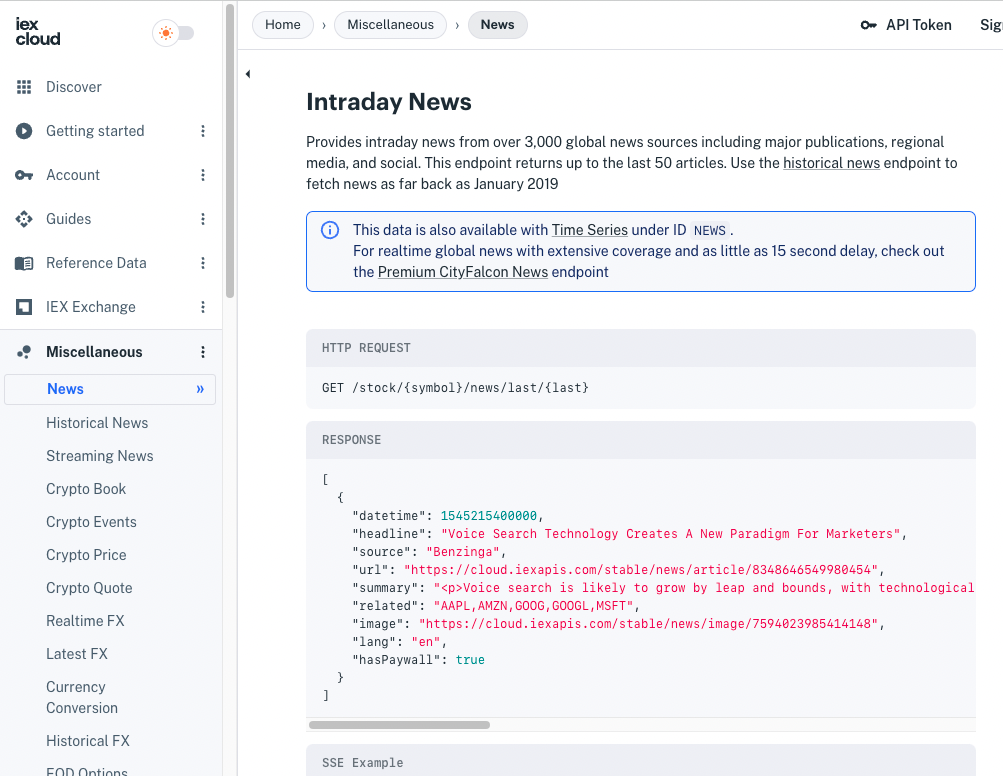
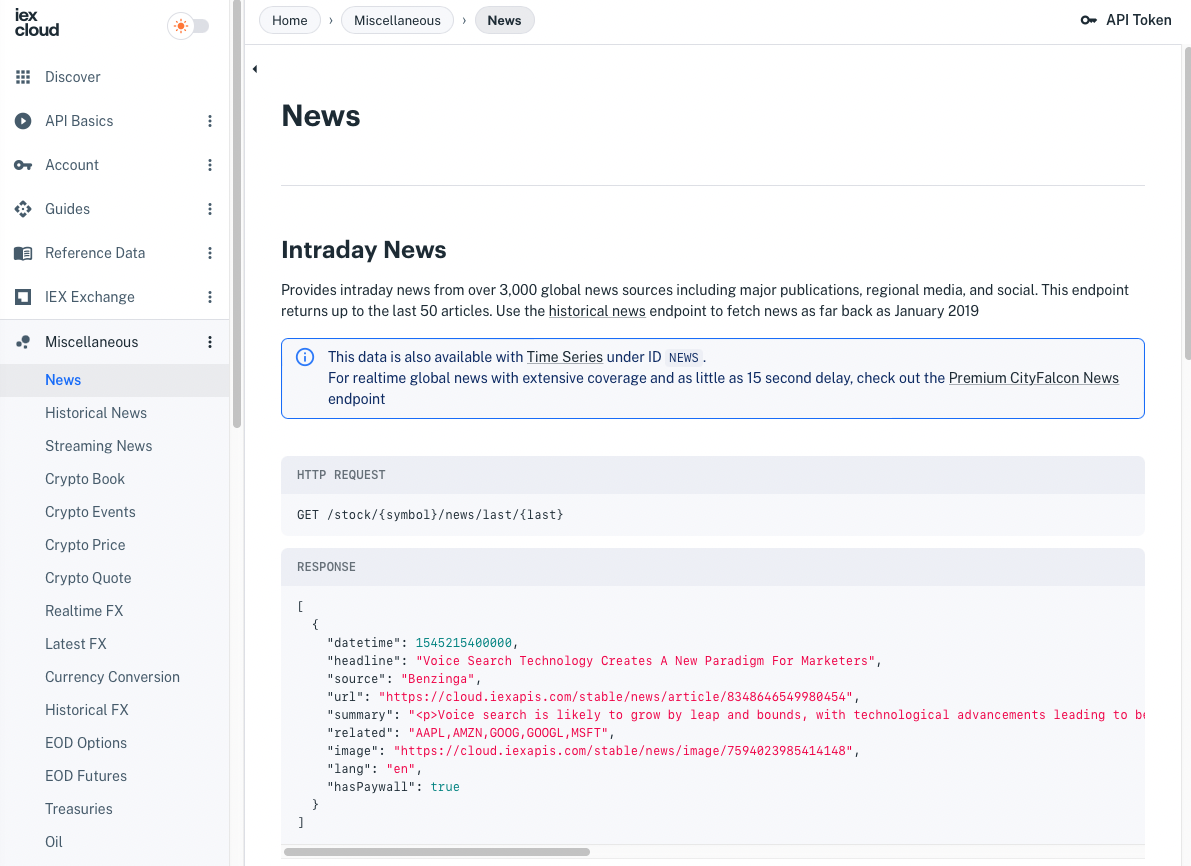
PFM-1543 update images

diff --git a/source/interacting-with-your-data/apperate-api-basics.md b/source/interacting-with-your-data/apperate-api-basics.md
@@ -6,7 +6,7 @@ The [Apperate API Reference](https://iexcloud.io/docs/) (<https://iexcloud.io/do
 
 Here's a screenshot of the [API Basics](https://iexcloud.io/docs/api-basics) guide and the API Reference navigation:
 
-![](./apperate-api-basics/api-reference-getting-started.png)
+![](./apperate-api-basics/api-reference-api-basics.png)
 
 The [API Basics](https://iexcloud.io/docs/api-basics) guide is the best place to start learning the API fundamentals.
 
